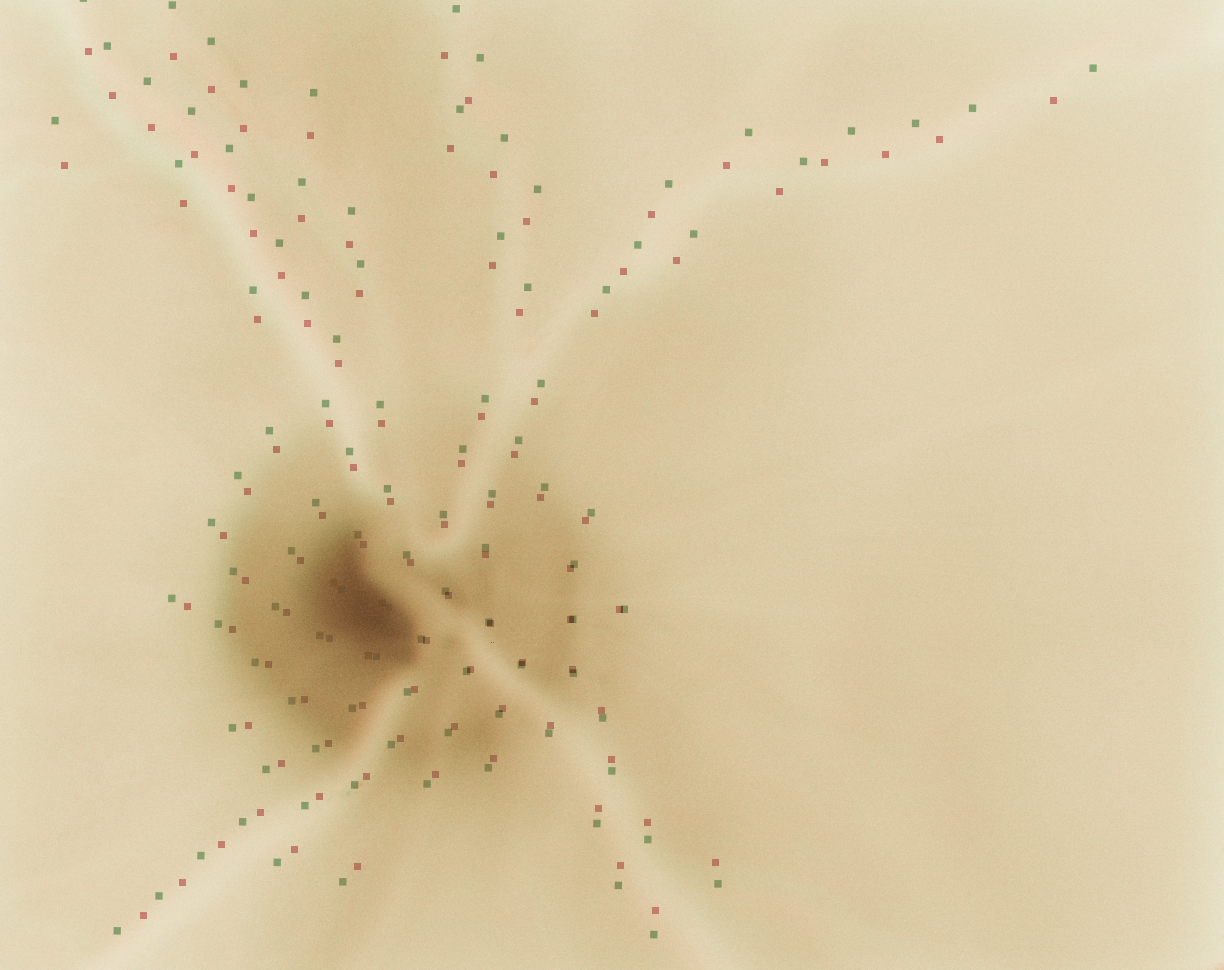
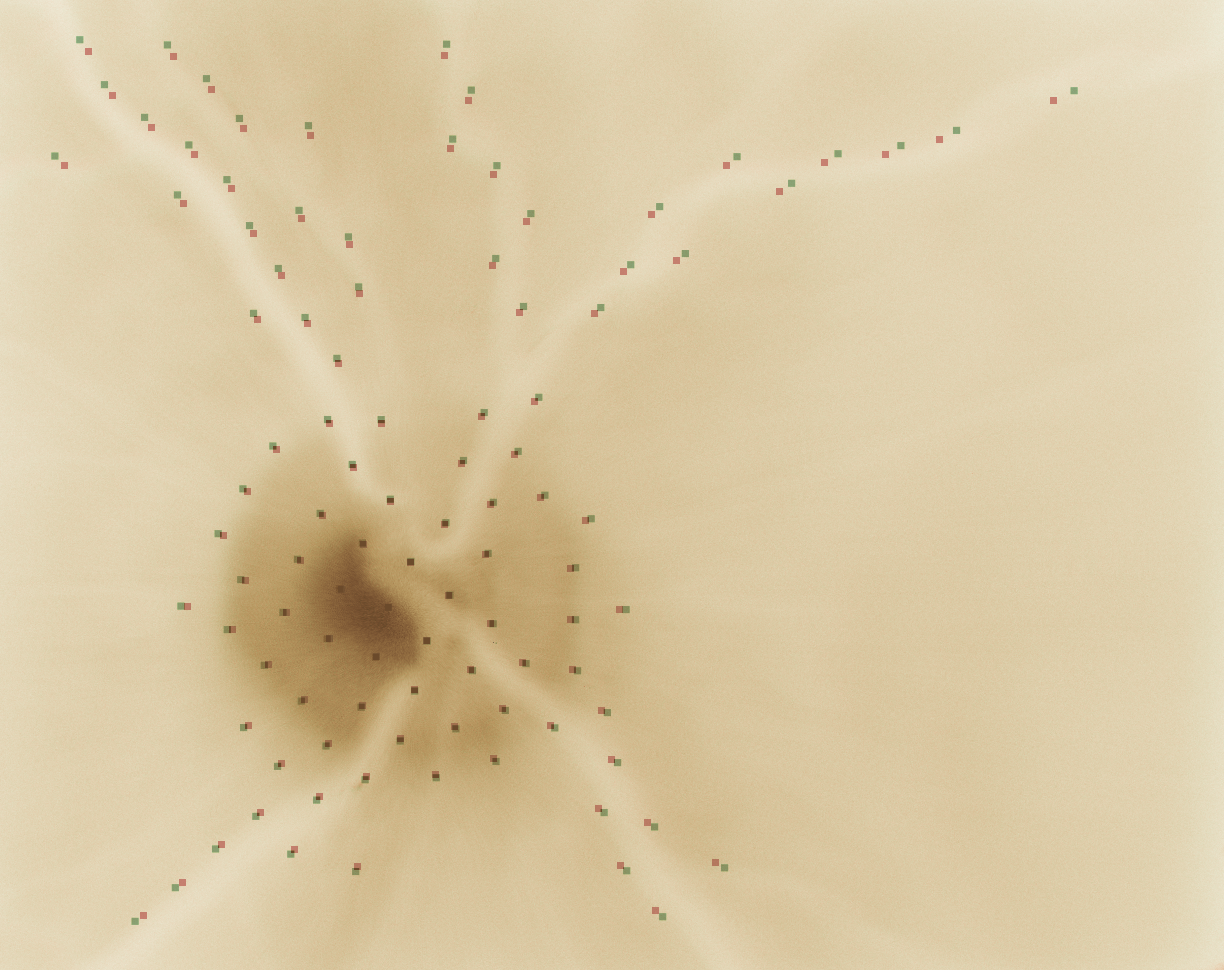
update

diff --git a/airlab/report.py b/airlab/report.py
@@ -4,8 +4,9 @@ import ipdb
 from tqdm import tqdm
 import os
 import sys
-sys.path.append("/home.stud/quangthi/ws/semester_work")
-from helper import load_data
+sys.path.append("/home.stud/quangthi/ws/semester_work/mutual")
+from generate_synthetic_img import generate_image
+
 import airlab as al
 import torch
 import pickle
@@ -14,10 +15,12 @@ import time
 import matplotlib.pyplot as plt
 from PIL import Image, ImageDraw
 
+num_iter = 1000
 x_trans = 10
 y_trans = 0
-rot_angle = 0
+rot_angle = 1
 alpha = 0.5
+sc = 1
 
 cm_red = plt.get_cmap('Reds')
 cm_green = plt.get_cmap("Greens")
@@ -27,10 +30,20 @@ if __name__=="__main__":
     dtype = torch.float32
     device = torch.device("cuda:0")
 
+    returned_dict = generate_image(x_trans, y_trans, rot_angle, sc)
+    img_fix_with_kp = returned_dict['img_fix_with_kp']
+    fixed_image_ori = al.image_from_numpy(returned_dict['img_fix'], [1, 1], [0, 0], dtype=dtype, device=device)
+    moving_image_ori = al.image_from_numpy(returned_dict['img_moving'], [1, 1], [0, 0], dtype=dtype, device=device)
+    img_move_with_kp = al.image_from_numpy(returned_dict['img_move_with_kp'], [1, 1], [0, 0], dtype=dtype, device=device)
 
-    fixed_image_ori = al.read_image_as_tensor(os.path.join(data_root, "fix.png"), dtype=dtype, device=device)
-    moving_image_ori = al.read_image_as_tensor(os.path.join(data_root, "moving.png"), dtype=dtype, device=device)
-    img_move_with_kp = al.read_image_as_tensor(os.path.join(data_root, "img_move_with_kp.png"), dtype=dtype, device=device)
+    # fixed_image = detect_keypoint.load_data("fix.png")
+
+    # fixed_image_ori = al.read_image_as_tensor(os.path.join(data_root, "fix.png"), dtype=dtype, device=device)
+
+
+    # moving_image_ori = al.read_image_as_tensor(os.path.join(data_root, "moving.png"), dtype=dtype, device=device)
+
+    # img_move_with_kp = al.read_image_as_tensor(os.path.join(data_root, "img_move_with_kp.png"), dtype=dtype, device=device)
 
     # ipdb.set_trace()
 
@@ -61,7 +74,7 @@ if __name__=="__main__":
     optimizer = torch.optim.Adam(transformation.parameters(), lr=0.01, amsgrad=True)
 
     registration.set_optimizer(optimizer)
-    registration.set_number_of_iterations(1000)
+    registration.set_number_of_iterations(num_iter)
 
     # start the registration
     registration.start()
@@ -78,14 +91,14 @@ if __name__=="__main__":
     warped_image = al.transformation.utils.warp_image(img_move_with_kp, displacement)
     img_transformed = warped_image.image.to('cpu').numpy()[0,0]
 
-    img_fix_with_kp = cv2.imread(os.path.join(data_root, "img_fix_with_kp.png"), cv2.IMREAD_GRAYSCALE)
     img_fix_red_with_kp = cm_red(img_fix_with_kp)
     img_move_green_with_kp = cm_green(img_transformed)
     overlay_image = cv2.addWeighted(img_fix_red_with_kp, 1 - alpha, img_move_green_with_kp, alpha, 0)
 
-    Image.fromarray((overlay_image[:, :, :3] * 255).astype(np.uint8)).save('overlay.png')
-    ipdb.set_trace()
+    saved_path = "./overlay_airlab.png"
+    Image.fromarray((overlay_image[:, :, :3] * 255).astype(np.uint8)).save(saved_path)
 
+    print(f"Image is saved at {saved_path}")
 
     # cv2.imwrite("out.png", img_transformed*255)
 
